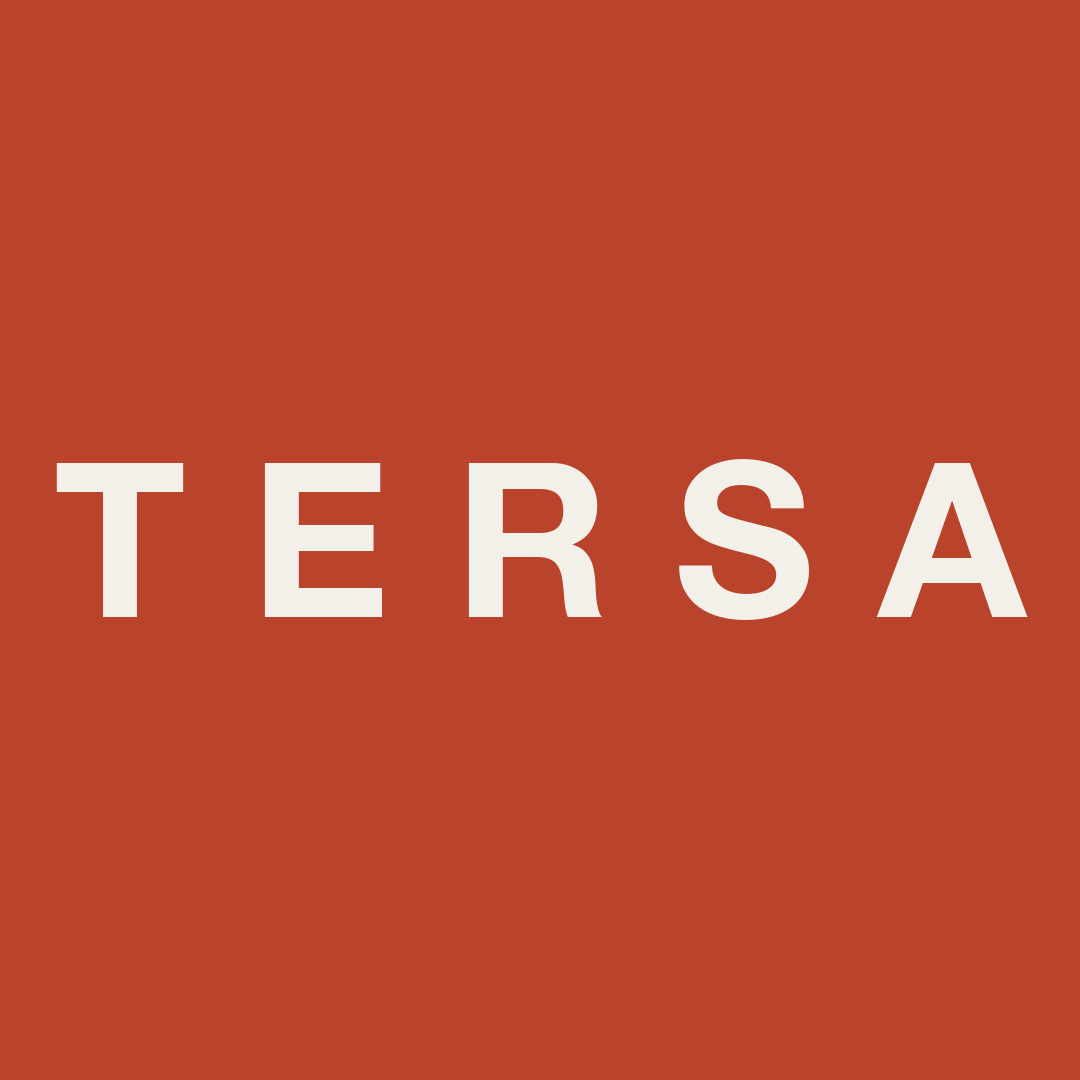
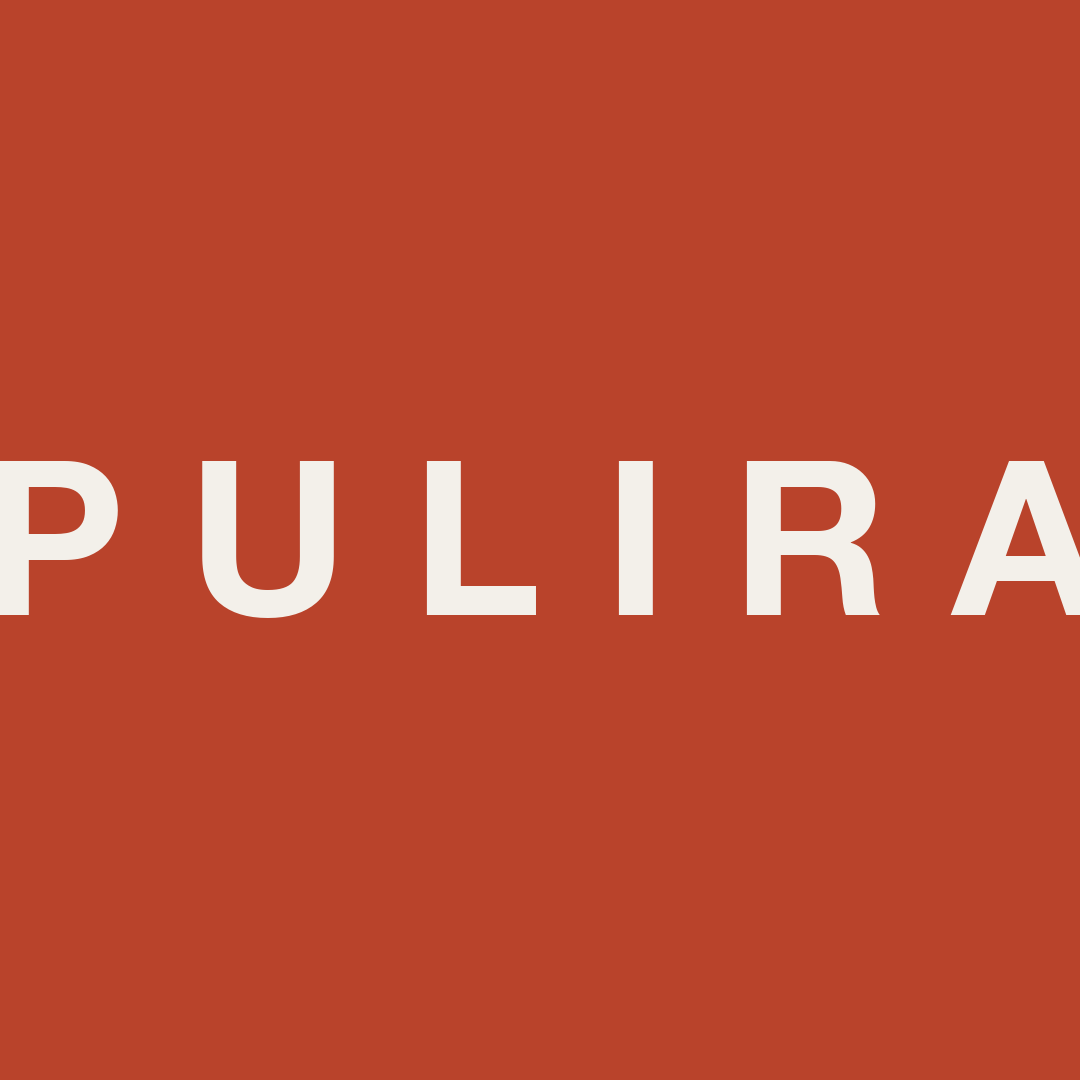
PULIRA · nuevo nombre (antes TERSA): wordmark, copy, catálogo sin fotos de empaque viejas

Changed region(s): [[0.3972, 0.4278, 1.0, 0.5806], [0.0, 0.4278, 0.3667, 0.5806]]

diff --git a/js/tienda.js b/js/tienda.js
@@ -1,4 +1,4 @@
-/* TERSA · tienda (catálogo, picks, kits, ficha, bolsa con código y sugerencias, pedido). Vanilla, sin dependencias. */
+/* PULIRA · tienda (catálogo, picks, kits, ficha, bolsa con código y sugerencias, pedido). Vanilla, sin dependencias. */
 (function () {
   'use strict';
   var GLIFOS = {
@@ -30,8 +30,8 @@
   var esc = function (s) { return String(s).replace(/&/g, '&amp;').replace(/</g, '&lt;').replace(/>/g, '&gt;').replace(/"/g, '&quot;'); };
   var filtro = 'todo', q = '';
   var bolsa = {}, promo = {};
-  try { bolsa = JSON.parse(localStorage.getItem('tersa-bolsa') || '{}'); } catch (e) { bolsa = {}; }
-  try { promo = JSON.parse(localStorage.getItem('tersa-promo') || '{}'); } catch (e) { promo = {}; }
+  try { bolsa = JSON.parse(localStorage.getItem('pulira-bolsa') || '{}'); } catch (e) { bolsa = {}; }
+  try { promo = JSON.parse(localStorage.getItem('pulira-promo') || '{}'); } catch (e) { promo = {}; }
 
   // Catálogo activo + copy de ventas fusionado
   var P = CATALOGO.filter(function (p) { return p.activo !== false; }).map(function (p) { return Object.assign({}, p, (typeof COPY !== 'undefined' && COPY[p.id]) || {}); });
@@ -41,7 +41,7 @@
 
   /* ---- imágenes: foto si existe, glifo si no ---- */
   function svg(glifo) { return '<svg viewBox="0 0 120 120" aria-hidden="true">' + (GLIFOS[glifo] || GLIFOS.kit) + '</svg>'; }
-  window.TERSA_glifo = function (img) { var g = img.getAttribute('data-glifo'); var span = document.createElement('span'); span.innerHTML = svg(g); img.replaceWith(span.firstChild); };
+  window.PULIRA_glifo = function (img) { var g = img.getAttribute('data-glifo'); var span = document.createElement('span'); span.innerHTML = svg(g); img.replaceWith(span.firstChild); };
   var FOTOS = (typeof window.FOTOS === 'object' && window.FOTOS) || {};
   function vistas(p) { var v = FOTOS[p.id]; return Array.isArray(v) ? v : (v ? ['principal'] : []); }
   function fotoSrc(p, vista) { return 'img/p/' + p.id + (vista === 'principal' ? '' : '-' + vista) + '.jpg'; }
@@ -51,7 +51,7 @@
     var src = p.img || (vs.length ? fotoSrc(p, 'principal') : '');
     var alt = vs.indexOf('detalle') >= 0 ? '<img loading="lazy" class="alt" src="' + fotoSrc(p, 'detalle') + '" alt="">' : '';
     return '<div class="tile" data-ver="' + p.id + '"><span class="cod mono">' + esc(p.codigo) + '</span>' + (extra || '') +
-      (src ? '<img loading="lazy" src="' + esc(src) + '" alt="' + esc(p.nombre) + '" data-glifo="' + esc(p.glifo) + '" onerror="TERSA_glifo(this)">' + alt : svg(p.glifo)) + '</div>';
+      (src ? '<img loading="lazy" src="' + esc(src) + '" alt="' + esc(p.nombre) + '" data-glifo="' + esc(p.glifo) + '" onerror="PULIRA_glifo(this)">' + alt : svg(p.glifo)) + '</div>';
   }
   function galeria(p) {
     var vs = vistas(p);
@@ -81,7 +81,7 @@
     t.addEventListener('click', function () { abreFicha(p.id); });
     t.addEventListener('keydown', function (e) { if (e.key === 'Enter' || e.key === ' ') { e.preventDefault(); abreFicha(p.id); } });
   })();
-  (function () { var c = $('coleccion'); if (c && FOTOS.coleccion) c.innerHTML = '<img src="img/coleccion.jpg" alt="Colección TERSA: los dispositivos del catálogo" loading="lazy">'; })();
+  (function () { var c = $('coleccion'); if (c && FOTOS.coleccion) c.innerHTML = '<img src="img/coleccion.jpg" alt="Colección PULIRA: los dispositivos del catálogo" loading="lazy">'; })();
   function pintaPicks() {
     if (!$('picks')) return;
     $('picks').innerHTML = PICKS.map(function (pk, i) {
@@ -156,7 +156,7 @@
   function cierraFicha() { $('modal').classList.remove('on'); document.body.style.overflow = ''; }
 
   /* ---- bolsa ---- */
-  function guarda() { try { localStorage.setItem('tersa-bolsa', JSON.stringify(bolsa)); localStorage.setItem('tersa-promo', JSON.stringify(promo)); } catch (e) {} }
+  function guarda() { try { localStorage.setItem('pulira-bolsa', JSON.stringify(bolsa)); localStorage.setItem('pulira-promo', JSON.stringify(promo)); } catch (e) {} }
   function promoActiva() { return !!(CONFIG.promo && CONFIG.promo.activa && promo.codigo && promo.codigo.toUpperCase() === String(CONFIG.promo.codigo).toUpperCase()); }
   function totales() {
     var sub = 0, n = 0;
@@ -213,7 +213,7 @@
   function textoPedido(items) {
     var t = totales();
     var lineas = Object.keys(items).map(function (id) { var p = byId(id); return '• ' + items[id] + ' × ' + p.nombre + ' (' + p.codigo + ') — ' + MXN(p.precio * items[id]); });
-    return 'Hola TERSA, quiero pedir:\n' + lineas.join('\n') + '\nSubtotal ' + MXN(t.sub) + (t.desc ? ' · Descuento −' + MXN(t.desc) : '') + ' · Envío ' + (t.envio ? MXN(t.envio) : 'gratis') + ' · Total ' + MXN(t.total) + (promoActiva() ? '\nCódigo: ' + CONFIG.promo.codigo : '') + '\nNombre:\nCiudad y C.P.:\nPago: transferencia / Mercado Pago';
+    return 'Hola PULIRA, quiero pedir:\n' + lineas.join('\n') + '\nSubtotal ' + MXN(t.sub) + (t.desc ? ' · Descuento −' + MXN(t.desc) : '') + ' · Envío ' + (t.envio ? MXN(t.envio) : 'gratis') + ' · Total ' + MXN(t.total) + (promoActiva() ? '\nCódigo: ' + CONFIG.promo.codigo : '') + '\nNombre:\nCiudad y C.P.:\nPago: transferencia / Mercado Pago';
   }
   function pedir() {
     if (!totales().n) return;
@@ -225,7 +225,7 @@
   }
   function comprarAhora(id) {
     var p = byId(id); if (!p) return;
-    var texto = 'Hola TERSA, quiero comprar ' + p.nombre + ' (' + p.codigo + ') — ' + MXN(p.precio) + '\nNombre:\nCiudad y C.P.:';
+    var texto = 'Hola PULIRA, quiero comprar ' + p.nombre + ' (' + p.codigo + ') — ' + MXN(p.precio) + '\nNombre:\nCiudad y C.P.:';
     window.open('https://wa.me/' + CONFIG.whatsapp + '?text=' + encodeURIComponent(texto), '_blank');
   }
 
@@ -233,23 +233,23 @@
   (function () {
     var col = $('btn-colabora');
     if (col) {
-      var msg = encodeURIComponent('Hola TERSA, creo contenido de belleza y quiero colaborar. Mis redes: ');
+      var msg = encodeURIComponent('Hola PULIRA, creo contenido de belleza y quiero colaborar. Mis redes: ');
       if (CONFIG.whatsapp) { col.href = 'https://wa.me/' + CONFIG.whatsapp + '?text=' + msg; col.target = '_blank'; col.rel = 'noopener'; }
-      else if (CONFIG.correo) { col.href = 'mailto:' + CONFIG.correo + '?subject=' + encodeURIComponent('Colaboración TERSA') + '&body=' + msg; }
+      else if (CONFIG.correo) { col.href = 'mailto:' + CONFIG.correo + '?subject=' + encodeURIComponent('Colaboración PULIRA') + '&body=' + msg; }
       else { col.addEventListener('click', function (e) { e.preventDefault(); col.textContent = 'Canales oficiales próximamente'; }); }
     }
     if (CONFIG.promo && CONFIG.promo.activa) $('topbar').textContent = CONFIG.promo.texto + ' · Garantía 12 meses · Cambio en 30 días';
     var c = $('canales'), html = '';
-    if (CONFIG.whatsapp) { html += '<a href="https://wa.me/' + CONFIG.whatsapp + '" target="_blank" rel="noopener">WhatsApp</a>'; var w = $('wa-float'); w.href = 'https://wa.me/' + CONFIG.whatsapp + '?text=' + encodeURIComponent('Hola TERSA, tengo una duda sobre '); w.hidden = false; }
+    if (CONFIG.whatsapp) { html += '<a href="https://wa.me/' + CONFIG.whatsapp + '" target="_blank" rel="noopener">WhatsApp</a>'; var w = $('wa-float'); w.href = 'https://wa.me/' + CONFIG.whatsapp + '?text=' + encodeURIComponent('Hola PULIRA, tengo una duda sobre '); w.hidden = false; }
     if (CONFIG.instagram) html += '<a href="https://instagram.com/' + esc(CONFIG.instagram) + '" target="_blank" rel="noopener">Instagram</a>';
     if (CONFIG.correo) html += '<a href="mailto:' + esc(CONFIG.correo) + '">Correo</a>';
     c.innerHTML = html || '<span>Canales oficiales próximamente</span>';
     $('form-news').addEventListener('submit', function (e) {
       e.preventDefault();
       var mail = $('news-mail').value.trim(); if (!mail) return;
-      var lista = []; try { lista = JSON.parse(localStorage.getItem('tersa-news') || '[]'); } catch (err) {}
+      var lista = []; try { lista = JSON.parse(localStorage.getItem('pulira-news') || '[]'); } catch (err) {}
       if (lista.indexOf(mail) < 0) lista.push(mail);
-      try { localStorage.setItem('tersa-news', JSON.stringify(lista)); } catch (err) {}
+      try { localStorage.setItem('pulira-news', JSON.stringify(lista)); } catch (err) {}
       $('form-news').innerHTML = '<span class="ok">Listo. Te avisamos cuando entre algo nuevo.</span>';
     });
   })();

diff --git a/index.html b/index.html
@@ -3,15 +3,15 @@
 <head>
 <meta charset="UTF-8">
 <meta name="viewport" content="width=device-width, initial-scale=1.0">
-<title>TERSA · Beauty tech con garantía | Máscara LED, microcorriente, limpieza ultrasónica en México</title>
+<title>PULIRA · Beauty tech con garantía | Máscara LED, microcorriente, limpieza ultrasónica en México</title>
 <meta name="description" content="Tu rutina de cabina, en casa. Máscara LED, microcorriente, espátula ultrasónica, cepillo secador y más, seleccionados y verificados uno por uno, con garantía de 12 meses y envío a todo México.">
-<meta property="og:title" content="TERSA · Tu rutina de cabina, en casa">
+<meta property="og:title" content="PULIRA · Tu rutina de cabina, en casa">
 <meta property="og:description" content="Dispositivos de belleza con garantía de 12 meses, envío a todo México y fichas que dicen qué hacen y qué no.">
 <meta property="og:image" content="img/coleccion.jpg">
 <link rel="preconnect" href="https://fonts.googleapis.com">
 <link rel="preconnect" href="https://fonts.gstatic.com" crossorigin>
 <link href="https://fonts.googleapis.com/css2?family=Archivo:wght@500;600;700&family=IBM+Plex+Mono:wght@400;500&family=Inter:wght@400;500;600&display=swap" rel="stylesheet">
-<link rel="stylesheet" href="css/tersa.css">
+<link rel="stylesheet" href="css/pulira.css">
 </head>
 <body>
 
@@ -25,7 +25,7 @@
       <a href="#catalogo" data-cat="unas">Uñas</a>
       <a href="#kits">Sets</a>
     </nav>
-    <a class="logo centro" href="#">TERSA</a>
+    <a class="logo centro" href="#">PULIRA</a>
     <div class="hdr-acc">
       <input class="buscar" id="buscar" type="search" placeholder="Buscar" aria-label="Buscar producto">
       <button class="btn chico" id="btn-bolsa">Bolsa · <span id="bolsa-n">0</span></button>
@@ -38,11 +38,11 @@
   <section class="hero-full">
     <picture>
       <source media="(min-width: 800px)" srcset="img/coleccion.jpg">
-      <img src="img/hero.jpg" alt="Colección TERSA de dispositivos de belleza">
+      <img src="img/hero.jpg" alt="Colección PULIRA de dispositivos de belleza">
     </picture>
     <div class="hero-txt">
       <p class="eyebrow">Beauty tech · México</p>
-      <h1>Tersa.</h1>
+      <h1>Pulira.</h1>
       <p class="lead">Dispositivos de belleza que sí hacen algo. Con stock en México y garantía de 12 meses.</p>
       <div class="cta"><a class="btn" href="#catalogo">Ver catálogo</a><a class="btn linea" href="#kits">Sets</a></div>
     </div>
@@ -96,14 +96,12 @@
   <section class="comunidad" id="comunidad">
     <div class="wrap sec-h">
       <h2>Comunidad</h2>
-      <p>Lo que la gente hace con TERSA. Sin filtros, sin guion.</p>
+      <p>Lo que la gente hace con PULIRA. Sin filtros, sin guion.</p>
     </div>
     <div class="carril">
       <figure><img src="img/vida/vida-selfie.jpg" alt="Selfie con máscara LED" loading="lazy"><figcaption>Noche de máscara</figcaption></figure>
       <figure><img src="img/vida/vida-amigas.jpg" alt="Amigas con máscaras LED" loading="lazy"><figcaption>Kit Glow entre amigas</figcaption></figure>
-      <figure><img src="img/vida/vida-unboxing.jpg" alt="Abriendo la caja TERSA" loading="lazy"><figcaption>Unboxing</figcaption></figure>
       <figure><img src="img/vida/vida-creadora.jpg" alt="Creadora filmando con la microcorriente" loading="lazy"><figcaption>Creadoras</figcaption></figure>
-      <figure><img src="img/vida/vida-caja.jpg" alt="Caja TERSA en las manos" loading="lazy"><figcaption>La caja</figcaption></figure>
       <div class="colabora">
         <p class="eyebrow">Colaboraciones</p>
         <h3>¿Creas contenido de belleza?</h3>
@@ -114,7 +112,7 @@
   </section>
 
   <section class="banda">
-    <img src="img/vida/vida-vanity-ancho.jpg" alt="Tocador con la colección TERSA" loading="lazy">
+    <img src="img/vida/vida-vanity-ancho.jpg" alt="Tocador con la colección PULIRA" loading="lazy">
     <div class="banda-txt"><p class="eyebrow">El ritual</p><h2>Diez minutos.<br>Todos los días.<br>Se nota.</h2><a class="btn" href="#catalogo">Ver catálogo</a></div>
   </section>
 
@@ -132,7 +130,7 @@
     <div class="sec-h"><h2>Preguntas</h2></div>
     <details><summary>¿Cómo pago y cuándo llega?</summary><p>Pides por WhatsApp o en nuestra tienda en línea. Pagas por transferencia o con tarjeta. Entrega en 2 a 6 días hábiles a todo México, con guía (la mayoría llega en 1 a 3). Los kits llegan en paquetes separados. Envío gratis desde $999; abajo de eso, $99.</p></details>
     <details><summary>¿Qué garantía tienen?</summary><p>12 meses contra defectos de fábrica: si falla, lo reponemos. Los primeros 30 días lo cambias por otro producto si no era lo que esperabas y está completo. No cubre golpes ni agua en aparatos que no son impermeables.</p></details>
-    <details><summary>¿Son originales?</summary><p>Son aparatos de marcas de mercado (CIICII, Monbelle, Fopnew, K.Skin, INSKIN, SUN, Utieer y similares) que seleccionamos por sus ventas y reseñas verificadas. Llegan nuevos y en su empaque original; TERSA pone la curaduría, la ficha honesta y la garantía.</p></details>
+    <details><summary>¿Son originales?</summary><p>Son aparatos de marcas de mercado (CIICII, Monbelle, Fopnew, K.Skin, INSKIN, SUN, Utieer y similares) que seleccionamos por sus ventas y reseñas verificadas. Llegan nuevos y en su empaque original; PULIRA pone la curaduría, la ficha honesta y la garantía.</p></details>
     <details><summary>¿Los dispositivos eléctricos son seguros?</summary><p>Los aparatos que se conectan a la corriente o llevan motor se venden con certificado NOM de seguridad eléctrica; los de batería o USB cumplen el etiquetado NOM y vienen con cargador certificado.</p></details>
     <details><summary>¿Sirven de verdad?</summary><p>Cada producto tiene a la vista su lista de "qué no hace" y cuándo se notan los resultados. Un dispositivo casero no sustituye un tratamiento dermatológico; lo que sí hace, lo hace con uso constante.</p></details>
     <details><summary>¿Dan factura?</summary><p>Sí. Pídela por WhatsApp con tu RFC y uso de CFDI al confirmar el pedido.</p></details>
@@ -151,7 +149,7 @@
 <footer>
   <div class="wrap">
     <div>
-      <b style="font-family:var(--display);color:var(--tinta);letter-spacing:.18em">TERSA</b>
+      <b style="font-family:var(--display);color:var(--tinta);letter-spacing:.18em">PULIRA</b>
       <p>Beauty tech con garantía · México</p>
     </div>
     <div class="canales" id="canales"></div>
@@ -182,15 +180,15 @@
 // ======= CONFIG (llenar cuando existan los canales oficiales) =======
 var CONFIG = {
   whatsapp: "",            // ej. "5214431234567" — vacío = el pedido se copia al portapapeles
-  instagram: "",           // ej. "tersa.mx"
-  correo: "",              // ej. "hola@tersa.mx"
+  instagram: "",           // ej. "pulira.mx"
+  correo: "",              // ej. "hola@pulira.mx"
   envioGratisDesde: 999,   // MXN
   envio: 99,               // MXN, pedidos menores
   mercadoLibre: {},        // ej. { "mascara-led": "https://articulo.mercadolibre.com.mx/MLM-..." } → botón en la ficha
   promo: {                 // oferta de lanzamiento (activa:false la apaga)
     activa: true,
-    codigo: "TERSA",
-    texto: "Lanzamiento: envío gratis en tu primer pedido con el código TERSA",
+    codigo: "PULIRA",
+    texto: "Lanzamiento: envío gratis en tu primer pedido con el código PULIRA",
     envioGratis: true,     // el código quita el envío
     descuento: 0           // 0.10 = 10% sobre el subtotal (ojo con el margen: revisa el motor antes)
   }

diff --git a/js/fotos.js b/js/fotos.js
@@ -1,84 +1,68 @@
-/* TERSA · fotos disponibles por producto (principal, detalle, empaque). Lo escriben las herramientas de fotos; la tienda usa la foto solo si está aquí. */
+/* PULIRA · fotos disponibles por producto (principal, detalle, empaque). Lo escriben las herramientas de fotos; la tienda usa la foto solo si está aquí. */
 var FOTOS = {
   "cepillo-facial": [
     "principal",
-    "detalle",
-    "empaque"
+    "detalle"
   ],
   "cepillo-secador": [
     "principal",
-    "detalle",
-    "empaque"
+    "detalle"
   ],
   "espatula-ultrasonica": [
     "principal",
-    "detalle",
-    "empaque"
+    "detalle"
   ],
   "espejo-led": [
     "principal",
-    "detalle",
-    "empaque"
+    "detalle"
   ],
   "esponjas-x4": [
     "principal",
-    "detalle",
-    "empaque"
+    "detalle"
   ],
   "gua-sha-electrico": [
     "principal",
-    "detalle",
-    "empaque"
+    "detalle"
   ],
   "kit-cabello": [
     "principal",
-    "detalle",
-    "empaque"
+    "detalle"
   ],
   "kit-glow": [
     "principal",
-    "detalle",
-    "empaque"
+    "detalle"
   ],
   "kit-rutina": [
     "principal",
-    "detalle",
-    "empaque"
+    "detalle"
   ],
   "lampara-unas": [
     "principal",
-    "detalle",
-    "empaque"
+    "detalle"
   ],
   "limpiador-brochas": [
     "principal",
-    "detalle",
-    "empaque"
+    "detalle"
   ],
   "masajeador-cabelludo": [
     "principal",
-    "detalle",
-    "empaque"
+    "detalle"
   ],
   "mascara-led": [
     "principal",
-    "detalle",
-    "empaque"
+    "detalle"
   ],
   "microcorriente": [
     "principal",
-    "detalle",
-    "empaque"
+    "detalle"
   ],
   "removedor-puntos": [
     "principal",
-    "detalle",
-    "empaque"
+    "detalle"
   ],
   "vaporizador": [
     "principal",
-    "detalle",
-    "empaque"
+    "detalle"
   ],
   "hero": true,
   "coleccion": true

diff --git a/css/pulira.css b/css/pulira.css
@@ -1,4 +1,4 @@
-/* TERSA · piel: porcelana + tinta + un acento (terracota). Sin neón, sin glow. */
+/* PULIRA · piel: porcelana + tinta + un acento (terracota). Sin neón, sin glow. */
 :root{--hueso:#F3F0EA;--papel:#FBFAF7;--tinta:#151311;--gris:#6E685F;--linea:#E1DBD1;--acento:#B9432B;--acento-2:#9A3622;--verde:#2F6B4F;--display:"Archivo",system-ui,sans-serif;--sans:"Inter",system-ui,sans-serif;--mono:"IBM Plex Mono",ui-monospace,SFMono-Regular,monospace}
 *{margin:0;padding:0;box-sizing:border-box}
 html{scroll-behavior:smooth;overflow-x:hidden}
@@ -226,8 +226,8 @@ table.compara{width:100%;border-collapse:collapse;font-size:14px;background:var(
 table.compara th{font-family:var(--mono);font-size:11px;letter-spacing:.08em;text-transform:uppercase;color:var(--gris);text-align:left;padding:14px 16px;border-bottom:1px solid var(--tinta);font-weight:500}
 table.compara td{padding:13px 16px;border-bottom:1px solid var(--linea);vertical-align:top;color:var(--gris)}
 table.compara td:first-child{color:var(--tinta);font-weight:600;white-space:nowrap}
-table.compara .tersa{background:#F7F4EE;color:var(--tinta);font-weight:500}
-table.compara th.tersa{color:var(--acento)}
+table.compara .pulira{background:#F7F4EE;color:var(--tinta);font-weight:500}
+table.compara th.pulira{color:var(--acento)}
 .garantia{display:grid;grid-template-columns:repeat(3,1fr);gap:22px}
 .news{background:var(--tinta);color:#EDE8DF;border-radius:8px;padding:34px 36px;display:grid;grid-template-columns:1.2fr 1fr;gap:28px;align-items:center;margin:20px 0 10px}
 .news h2{font-family:var(--display);font-size:24px;line-height:1.15;margin-bottom:8px}

diff --git a/js/copy.js b/js/copy.js
@@ -1,4 +1,4 @@
-/* TERSA · copy de ventas por producto. Se fusiona con el catálogo en la tienda (no toca los números del motor).
+/* PULIRA · copy de ventas por producto. Se fusiona con el catálogo en la tienda (no toca los números del motor).
    beneficio = promesa corta y medible · corto = 1–2 frases que venden · paraQuien = a quién le habla ·
    resultados = qué vas a notar y cuándo (honesto) · contra = por qué a este precio (con datos reales de Mercado Libre, sep-2026). */
 var COPY = {

diff --git a/js/catalogo.js b/js/catalogo.js
@@ -1,4 +1,4 @@
-/* TERSA · catálogo público (generado por herramientas/build_publico.py; los datos internos viven en js/catalogo.js del proyecto). */
+/* PULIRA · catálogo público (generado por herramientas/build_publico.py; los datos internos viven en js/catalogo.js del proyecto). */
 var CATALOGO = [
  {
   "id": "esponjas-x4",
